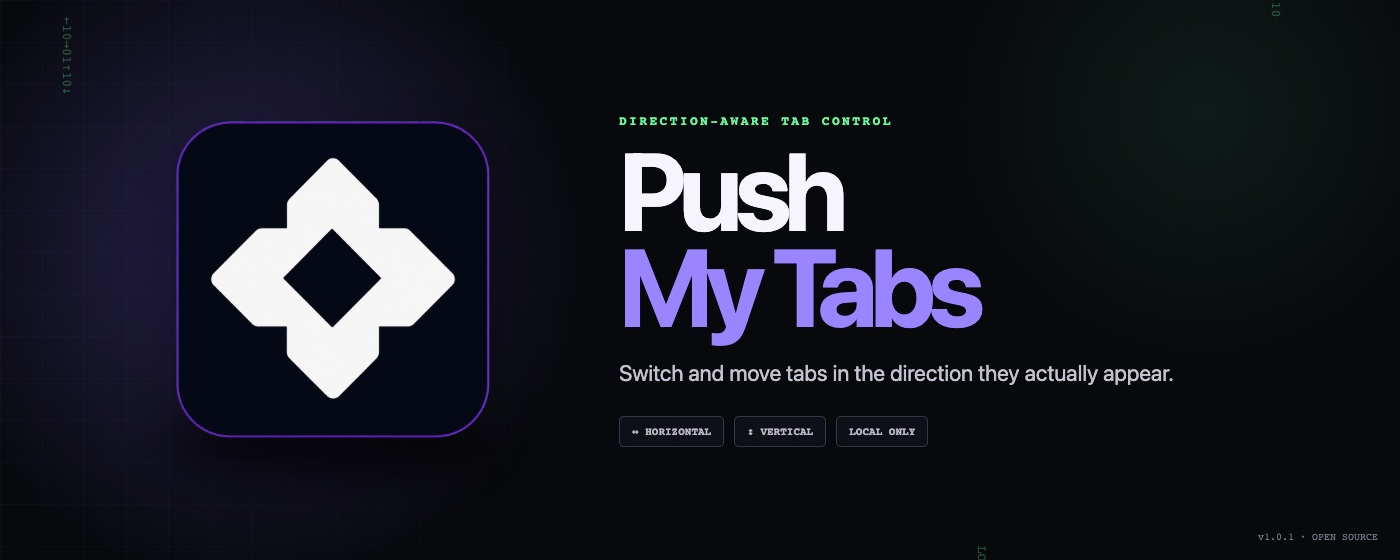
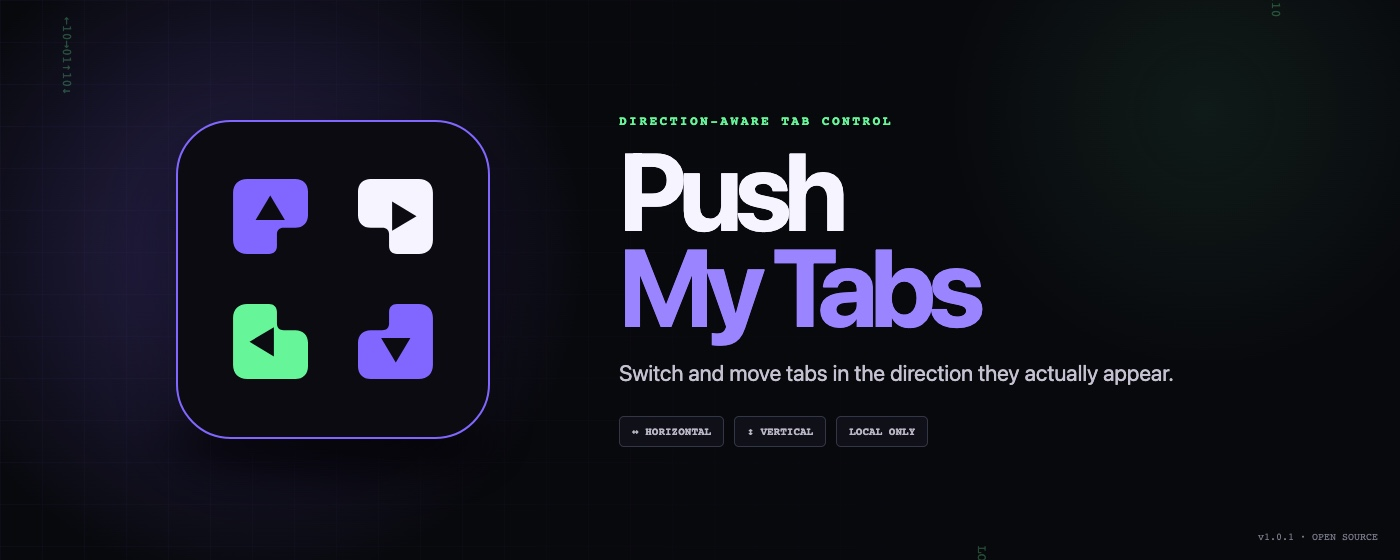
feat: finalize project branding and website

diff --git a/website/impressum.html b/website/impressum.html
@@ -1,0 +1,53 @@
+<!doctype html>
+<html lang="de">
+  <head>
+    <meta charset="utf-8">
+    <meta name="viewport" content="width=device-width, initial-scale=1">
+    <meta name="theme-color" content="#08090d">
+    <meta name="robots" content="noindex">
+    <title>Impressum — Push My Tabs</title>
+    <link rel="icon" href="favicon.ico" sizes="any">
+    <link rel="icon" type="image/png" sizes="32x32" href="favicon-32.png">
+    <link rel="stylesheet" href="styles.css">
+  </head>
+  <body>
+    <a class="skip-link" href="#main">Zum Inhalt springen</a>
+
+    <header class="site-header">
+      <a class="brand" href="index.html" aria-label="Zur Startseite von Push My Tabs">
+        <img class="brand-mark" src="logo-128.png" width="38" height="38" alt="">
+        <span>Push My Tabs</span>
+      </a>
+      <nav aria-label="Seitennavigation">
+        <a class="nav-source" href="index.html">Startseite</a>
+      </nav>
+    </header>
+
+    <main class="legal-main" id="main">
+      <p class="eyebrow">RECHTLICHE ANGABEN</p>
+      <h1>Impressum</h1>
+
+      <section class="legal-copy" aria-labelledby="provider-heading">
+        <h2 id="provider-heading">Angaben gemäß § 5 DDG</h2>
+        <address>
+          <strong>Enis Uysal</strong><br>
+          Beisingstraße 39<br>
+          45141 Essen
+        </address>
+
+        <h2>Kontakt</h2>
+        <p>E-Mail: <a href="mailto:eniso.uysal@gmail.com">eniso.uysal@gmail.com</a></p>
+        <p class="legal-updated">Stand: 26.07.2026</p>
+      </section>
+    </main>
+
+    <footer>
+      <a class="brand footer-brand" href="index.html"><img class="brand-mark" src="logo-128.png" width="38" height="38" alt=""><span>Push My Tabs</span></a>
+      <p>Built for people with too many tabs.</p>
+      <div>
+        <a href="index.html">Startseite</a>
+        <a href="https://github.com/pengusto/push-my-tabs/blob/main/PRIVACY.md">Datenschutz</a>
+      </div>
+    </footer>
+  </body>
+</html>

diff --git a/website/styles.css b/website/styles.css
@@ -249,6 +249,15 @@ footer p { text-align: center; }
 footer > div { display: flex; justify-content: flex-end; gap: 22px; }
 footer a:hover { color: var(--ink); }
 
+.legal-main { width: min(760px, calc(100% - 40px)); min-height: calc(100vh - 190px); margin: 0 auto; padding: 100px 0 130px; }
+.legal-main h1 { font-size: clamp(48px, 8vw, 76px); }
+.legal-copy { margin-top: 60px; padding-top: 34px; border-top: 1px solid var(--line); }
+.legal-copy h2 { margin: 36px 0 14px; font-size: 22px; letter-spacing: -0.02em; }
+.legal-copy address, .legal-copy p { margin: 0; color: var(--muted); font-style: normal; }
+.legal-copy a { color: var(--violet-bright); }
+.legal-copy a:hover { color: var(--signal); }
+.legal-copy .legal-updated { margin-top: 36px; font: 12px var(--mono); }
+
 @media (max-width: 960px) {
   .hero { grid-template-columns: 1fr; padding-top: 70px; }
   .hero-copy { max-width: 760px; }
@@ -287,6 +296,7 @@ footer a:hover { color: var(--ink); }
   footer { grid-template-columns: 1fr; }
   footer p { text-align: left; }
   footer > div { justify-content: flex-start; }
+  .legal-main { width: min(100% - 28px, 760px); padding: 72px 0 92px; }
 }
 
 @media (prefers-reduced-motion: reduce) {

diff --git a/website/index.html b/website/index.html
@@ -150,6 +150,7 @@
       <div>
         <a href="https://github.com/pengusto/push-my-tabs/issues">Support</a>
         <a href="https://github.com/pengusto/push-my-tabs">Source</a>
+        <a href="impressum.html">Impressum</a>
         <a href="https://github.com/pengusto/push-my-tabs/blob/main/LICENSE">MIT</a>
       </div>
     </footer>

diff --git a/CHANGELOG.md b/CHANGELOG.md
@@ -4,6 +4,14 @@ All notable user-facing changes to Push My Tabs are documented here.
 
 ## Unreleased
 
+### Added
+
+- Add an imprint page to the project website.
+
+### Changed
+
+- Refresh the extension, website, favicon, and store artwork with the new directional key logo.
+
 ## 1.0.1 - 2026-07-26
 
 ### Added
